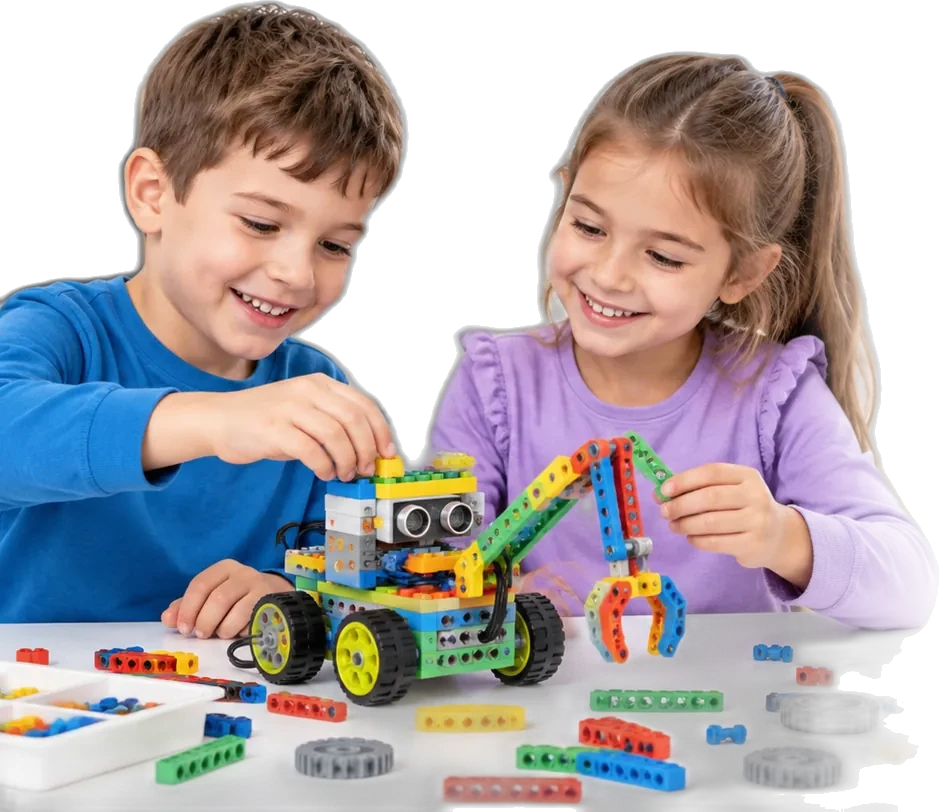
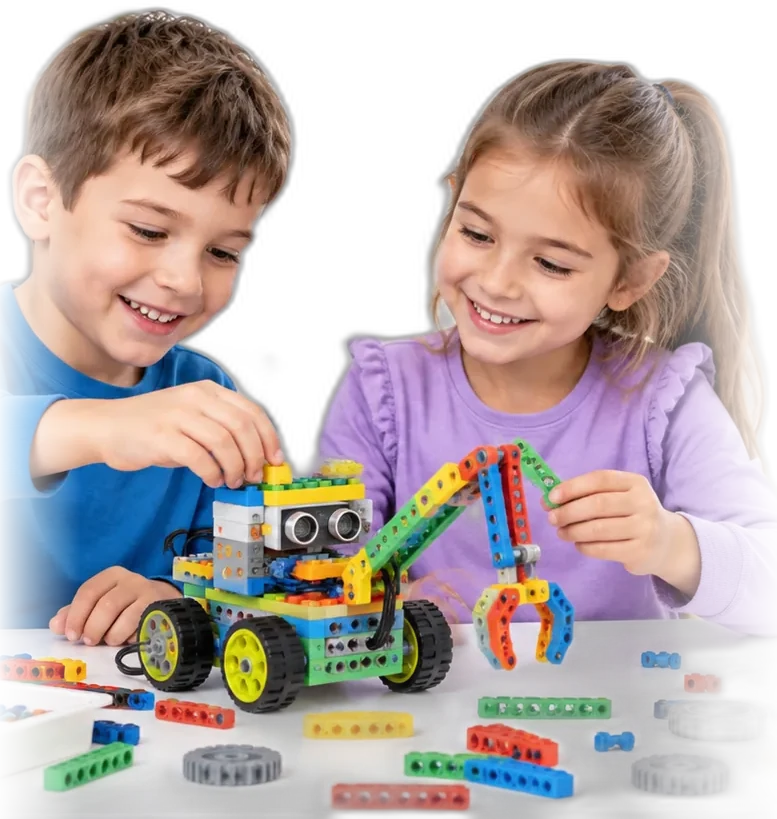
Login: los bordes del recorte desvanecidos y un tope de tamano
En pantallas grandes se veia como un rectangulo pegado encima del morado: el
recorte terminaba en tres lineas rectas -el brazo del nino a la izquierda y la
mesa a la derecha y abajo- y ademas, como el ancho era un porcentaje del panel
y el panel crece con la pantalla, en 1920 le pasaba por encima al titulo.

Ahora el archivo trae los bordes laterales desvanecidos, se recorta pegado a
los dos ninos y el armado -la bandeja blanca y el reguero de piezas eran los
que formaban la plancha palida- y el ancho tiene tope en px.

Abajo no se desvanece a proposito: ese borde coincide con el fin de la
pantalla, asi que no se lee como corte, y difuminarlo borraba el armado.

diff --git a/frontend/src/pages/login.css b/frontend/src/pages/login.css
@@ -55,19 +55,25 @@
    Recortada se apoya abajo a la derecha, a un tamaño cercano al original -o
    sea nítida-, el morado y la grilla quedan a la vista, y el aire de la
    izquierda es justo donde va el título.
-   Pegado al borde derecho del panel y sin sobresalir: el degradado de la mesa
-   sobre el morado se funde, pero sobre el blanco de la derecha se ve como una
-   mancha gris flotando. */
+   Pegado al borde derecho del panel y sin sobresalir: sobre el blanco de la
+   derecha la mesa difuminada se ve como una mancha gris flotando.
+   El archivo trae los bordes izquierdo y derecho desvanecidos a mano. Con el
+   recorte a secas quedaban tres líneas rectas -el brazo del niño cortado, la
+   mesa cortada- y el conjunto se leía como un rectángulo pegado encima en vez
+   de fundirse con el morado. Abajo NO se desvanece: ese borde coincide con el
+   fin de la pantalla, así que no se lee como corte. */
 .lg-panel-ninos {
   position: absolute;
   right: 0;
   bottom: 0;
-  width: 50%;
+  /* El ancho es un % del panel, pero el panel crece con la pantalla y el texto
+     no: en 1920 el recorte se hacía enorme y le pasaba por encima al título.
+     El tope en px lo congela a partir de ahí. */
+  width: 46%;
+  max-width: 520px;
   height: auto;
   z-index: 1;
   pointer-events: none;
-  /* La sombra la despega del morado; sin ella el recorte parece pegado. */
-  filter: drop-shadow(0 18px 34px rgba(15, 0, 30, 0.45));
 }
 
 /* Sombra de apoyo bajo la mesa, para que el recorte no flote sobre el morado.
